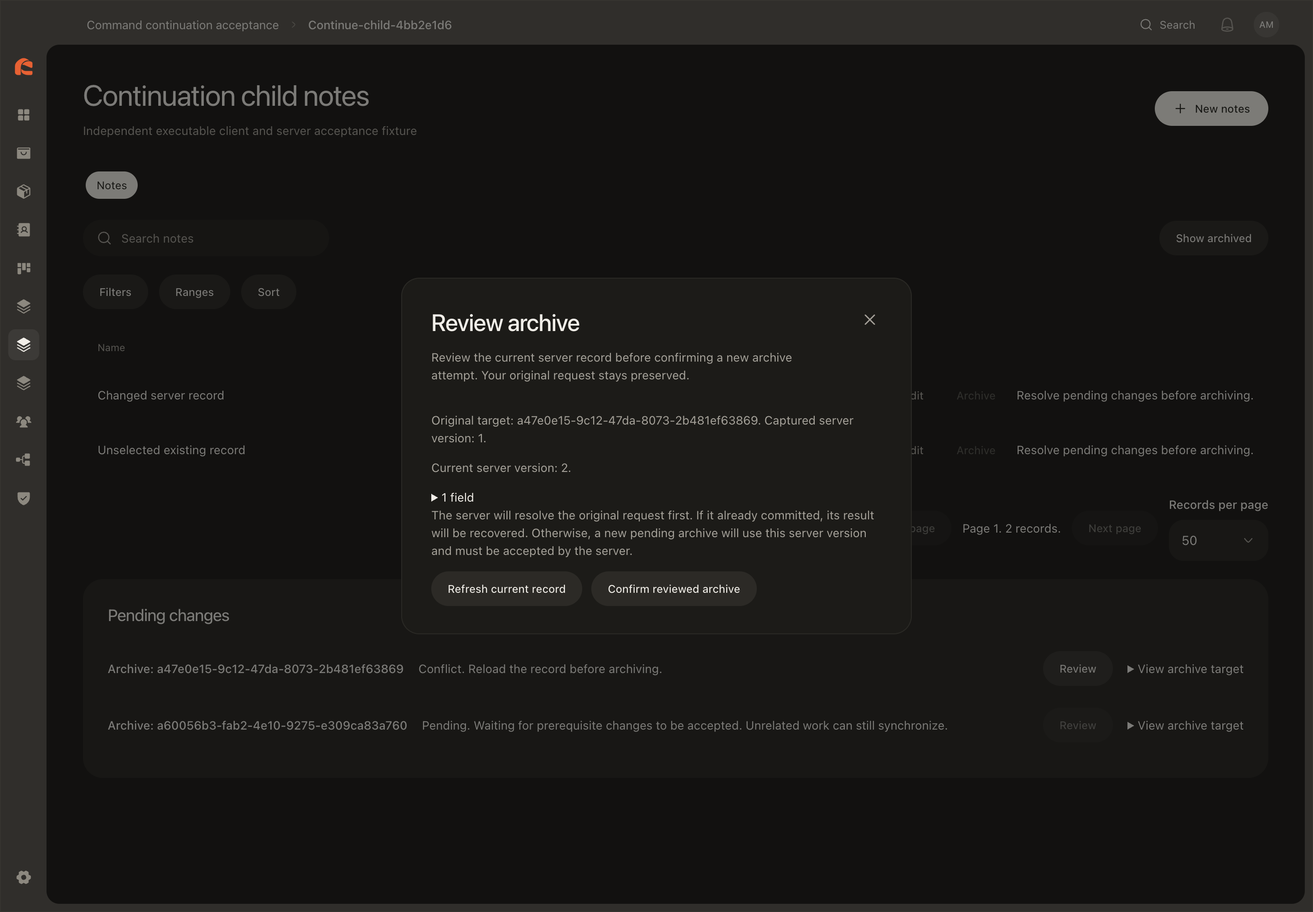
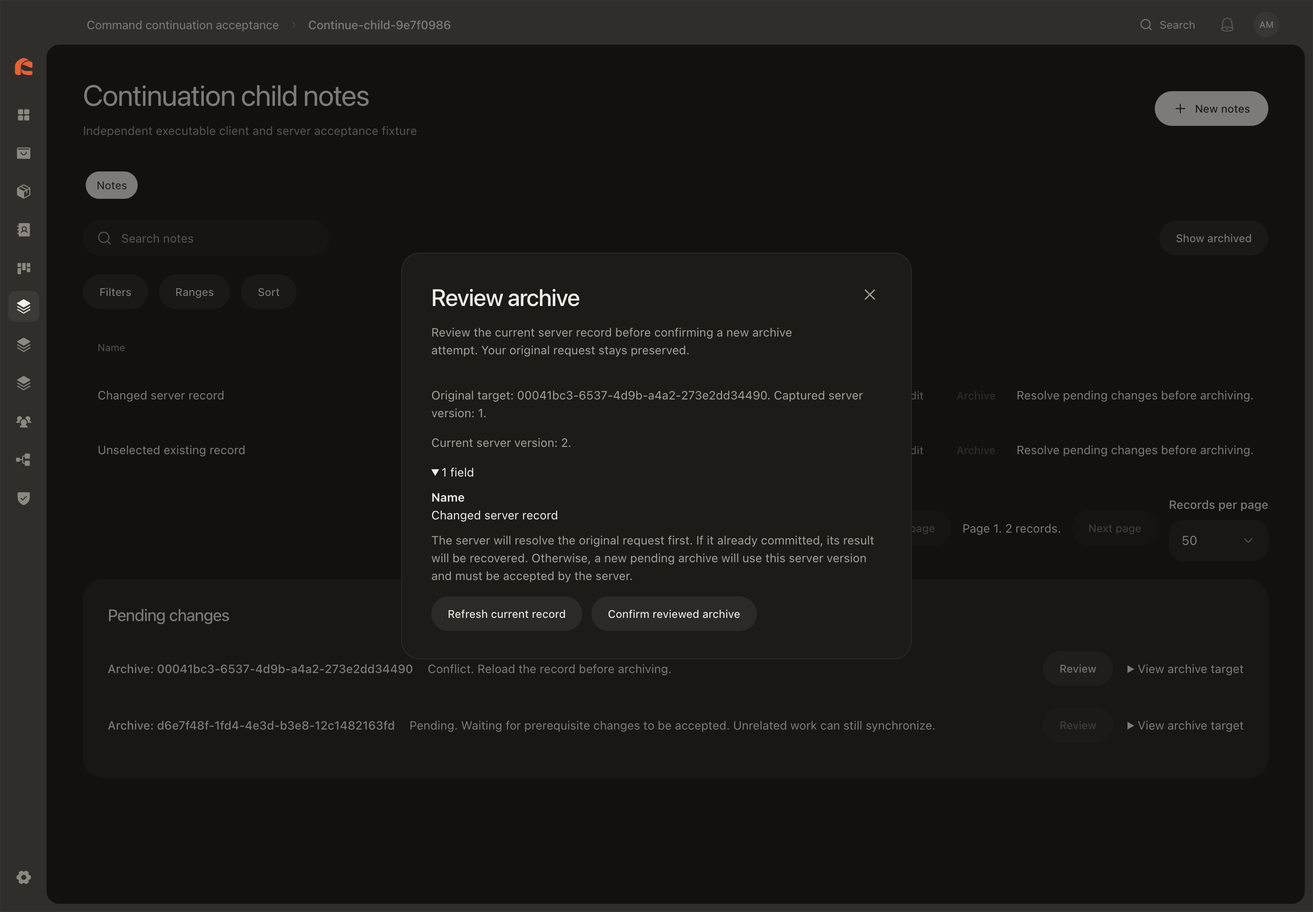
test: verify archive recovery and architecture boundaries

diff --git a/tests/support/archive-review-journey.ts b/tests/support/archive-review-journey.ts
@@ -82,9 +82,14 @@ export async function archiveReviewJourney({
   );
   expect(rollout.ok(), await rollout.text()).toBe(true);
   await page.getByRole("link", { name: "Modules", exact: true }).click();
-  const card = page.locator(".module-install-card").filter({
-    has: page.getByRole("heading", { name: modules[1].name, exact: true }),
-  });
+  const card = page
+    .locator(".module-install-card")
+    .filter({
+      has: page.getByRole("heading", { name: modules[1].name, exact: true }),
+    })
+    .filter({
+      has: page.getByText(`Version ${next.version}`, { exact: true }),
+    });
   await expect(card).toContainText(`Version ${next.version}`);
   await card.getByRole("button", { name: "Update", exact: true }).click();
   await expect(card).toContainText(`Installed ${next.version}`);

diff --git a/docs/parity-tracker.md b/docs/parity-tracker.md
@@ -15,11 +15,11 @@ Statuses: **ready** = executable next work; **open** = unfinished; **active** = 
 
 ## Current handoff
 
-**Current architecture review:** checkpoint `c43e7de` preserves queued-resource work. The requested Sol xhigh and parent reviews confirmed package ownership and consolidated queue-key validation under existing SDK/platform schema owners. Parent review also rejected malformed mixed retry identities. [Final evidence](verification/architecture/README.md#queued-resource-checkpoint-review-19-september-2026): strict checks/four fresh builds, 41 affected tests and two headless previews, following the full 550-test regression before the final schema correction. No production styling or signed historical artifact changed. The earlier [synchronization ownership review](verification/architecture/README.md#synchronization-ownership-review-19-september-2026) remains recorded separately.
+**Current architecture review:** checkpoint `222ac15` preserves archive recovery. The requested Sol xhigh audit and independent parent review confirmed current client/shell/UI ownership, explicit public exports and settlement/rewiring lock boundaries. No further structural change was justified; the original physical migration remains complete. [Review evidence](verification/architecture/README.md#archive-recovery-checkpoint-review-19-september-2026) links the scoped archive acceptance and its limits. Earlier [queued-resource](verification/architecture/README.md#queued-resource-checkpoint-review-19-september-2026) and [synchronization](verification/architecture/README.md#synchronization-ownership-review-19-september-2026) reviews remain recorded separately.
 
 **Architecture follow-up:** the requested Sol xhigh review preserved checkpoint `88f45f7` under `checkpoint/architecture-review-2026-09-18`, confirmed the existing ownership layout, and hardened portable SDK/contract checks and conditional wildcard export resolution. Parent review, nine boundary fixtures, strict checks and all four builds passed; see [review evidence](verification/architecture/README.md#follow-up-architecture-review-18-september-2026). This does not change parity statuses or the next SDK-05 work below.
 
-**Current primary item: OFF-01, dependent-create and conflict-resolution UI. [Retired command recovery](verification/command-retirement/README.md) preserves original input/reviews after removal or reclassification, with permission checks and explicit server settlement. [Historical permission administration](verification/historical-permissions/README.md) now has real People/matrix and recovery acceptance. [Host-owned command recovery](verification/command-recovery-host/README.md) now preserves access after view removal or device uninstall; its scoped acceptance is recorded separately. [Host-owned record/draft recovery](verification/resource-recovery-host/README.md) now preserves captured changes, receipts and ordinary drafts after resource removal or uninstall. [Advanced saved-review recovery](verification/host-review-recovery/README.md) adds queued/direct comparisons, collision-source drafts and archived input through offline uninstall/reinstall. [Independent saved-work exports](verification/work-recovery-export/README.md) now preserve exact requests, drafts and reviews from Settings under current authority. [Workspace synchronization](verification/workspace-synchronization/README.md) now verifies a shared coordinator across routes, capture and explicit retries. [Cross-module command continuation](verification/command-continuation/README.md) now has real browser/native restart and held-revocation evidence. [Native export ordering](verification/recovery-metadata-ordering/README.md) is now locally verified. [Public queued resources](verification/resource-continuation/README.md) now have SDK command-to-create continuation and create/update/archive lifecycle evidence. [Three-release saved-review recovery](verification/command-schema-review/README.md) now resolves removed top-level/nested fields without silently discarding input. [Reviewed update/archive descendants](verification/resource-descendants/README.md) now preserve original SDK capture identities through selected-only continuation, offline restart and revoked child authority. [Submitted descendant outcomes](verification/submitted-descendants/README.md) now verify command/create/update/archive recovery after reviewed continuation, including lost execution/settlement replies, restart and unrelated progress. Next: remaining legacy/source-contract and failed-create collision transitions, then profile recovery. The generated dependency chain and [explicit conflict comparison](verification/conflict-review/README.md) have scoped browser/native restart evidence. The [durable delivery milestone](verification/journal-delivery/README.md) preserves uncertain outcomes through denial and restart. The [authoritative settlement milestone](verification/attempt-settlement/README.md) now safely fences uncommitted requests and recovers accepted receipts. The [direct editor/archive milestone](verification/direct-recovery/README.md) now verifies exact retries through later denial, both authoritative outcomes and explicit online conflict review without enabling offline storage. The [independent review milestone](verification/review-drafts/README.md) now verifies separate queued/direct comparisons, ordinary-draft preservation, restart and offline resumption. The [journaled collision milestone](verification/create-collisions/README.md) adds authoritative separate-record recovery and atomic remapping of eligible unsubmitted resource dependents. The [direct collision milestone](verification/direct-create-collisions/README.md) now covers explicit separate-record recovery without enabling caching, including lost replacement receipts and repeated collisions. The [structured comparison milestone](verification/structured-conflicts/README.md) now verifies nested whole-field choices, authorized reference labels, partial review restart and real target-read revocation. The [cross-module capture milestone](verification/cross-capture/README.md) now verifies nested dependent creates, explicit grants, revocation/regrant, lost replies, offline restart and collision remapping. The [same-record milestone](verification/record-order/README.md) now verifies ordered capture, individual saved-input inspection, uncertainty, conflict review and dependent continuation. The [archived-input milestone](verification/archived-input/README.md) now verifies preserved read-only recovery, original-base exports, uncertain-request snapshots, pending-edit archive preflight and original-resource permission checks after tab changes. The [scoped recovery-export milestone](verification/recovery-export/README.md) now verifies current authority across delayed dialogs, revoked access, offline restart, lease expiry, closed views and logout, including denial of forged renderer snapshots. The [legacy ordering milestone](verification/legacy-order/README.md) now verifies durable scheduling repair, exact uncertain identities, explicit receipt recovery before continuation, offline restart and unrelated progress. The [collision-edit milestone](verification/collision-edits/README.md) now verifies per-edit target choice, retained original input, durable review before execution, chosen-target ordering and archived-source export. The [ordinary-draft collision milestone](verification/collision-drafts/README.md) adds explicit saved-draft choices, original-schema reference handling, atomic promotion to independent reviews and stale-editor protection without automatic submission. Legacy/online input remains unchanged when prior delivery or schema meaning is uncertain. Two earlier native linked-only dialog-close failures remain an intermittent reliability concern; a final eight-case run and nine instrumented collision repetitions passed, without establishing the earlier cause. [Retry-key alignment](verification/request-keys/README.md) now verifies opaque identities through native IPC, remote prerequisite lookup and original-release retry after restart. Retain the dialog diagnostic follow-up. The [queued-command SDK/storage foundation](verification/queued-commands/README.md) now implements typed provisional receipts, stable capture identities, original operation contracts, declared-error validation and reference prerequisites. [Custom-view queue integration](verification/queued-commands/README.md#custom-view-host-acceptance) now has real offline browser reload/native process-restart acceptance, exact-key lost-reply retry, declared rejection, accepted-outcome settlement, permission revocation, visible saved-input inspection and preview simulation. [Command correction](verification/command-correction/README.md) now preserves saved reviews across restart, fences originals before new identities, recovers late acceptance without a replacement, and continues only explicitly selected unsent dependents. [Held-action authority](verification/command-authority/README.md) now has browser/native expiry and received-revocation evidence, preserving exact reviews through reauthorization. [Command upgrade recovery](verification/command-upgrade/README.md) now checks original and active installed permissions, retains reviewed input across a new required field and recovers through the original identity under an explicit compatible rollout. Removed/reclassified commands and historical permission administration have scoped evidence above. Advanced host-owned reviews and independent exports have scoped acceptance above; remaining source-schema/legacy combinations and profile/sign-out recovery remain required. Submitted descendants after reviewed continuation now have scoped evidence; legacy/collision and broader command recovery remain required. The rest of the [acceptance map](offline-workflows.md) remains required. SDK-05-LAN-RECON now verifies authoritative remote prerequisites and original-release recovery, including duplicate-safe retry after mandatory updates. SDK-05 retains deployment, profile and notification acceptance; those gates remain required. OFF-01 is independent engineering work and a prerequisite for broader sign-out/profile recovery.** Architecture reconciliation was reviewed, committed and pushed as `92fd5fb`; its [acceptance record](verification/architecture/README.md) remains the source for the preserved baseline. [Local device grant authority](verification/local-device-grants/README.md) now verifies encrypted exact-release grants, lock/revoke/regrant, cross-window changes, upgrades/rollback and uninstall without losing records. [Local device consent](verification/local-device-consent/README.md) now verifies the owner-facing controls in web and hidden Electron, including offline decisions, keyboard focus and damaged-package revocation. [Standalone device requests](verification/local-device-requests/README.md) now have a typed worker contract, atomic encrypted journal and durable host processor with cancellation, reviewed device-only retries and uncertain-outcome recovery. [Actual standalone device effects and recovery controls](verification/local-device-effects/README.md) now pass browser/native acceptance. [Standalone development simulation](verification/local-device-simulator/README.md) now passes SDK, CLI and preview acceptance. [Corporate lease authority](verification/capability-leases/README.md) now has scoped server/signature acceptance: final hardened PostgreSQL regression and strict builds pass, and API schemas were regenerated after the local database recovered. [Client guard and browser persistence](verification/client-capability-leases/README.md) now have scoped acceptance for exact signed grants, policy/renewal races, restart, clock rollback and cross-tab/account isolation. [Real browser lease integration](verification/browser-capability-leases/README.md) now verifies authenticated acquisition, cached-view exports, connected revocation, tamper/expiry rejection and denial without fallback. [Issuer-wide client trust](verification/issuer-capability-trust/README.md) now verifies propagation across cached workspaces/accounts, restart, retired-key rejection, delayed-response races and legacy renewal. [Native offline authority](verification/native-capability-leases/README.md) now verifies main-owned policy/package/lease acquisition, protected process-restart recovery, expiry and revocation after dialogs, configured-issuer binding and rejection of renderer authority writes. [Corporate lease simulation](verification/corporate-lease-simulator/README.md) now verifies typed allowances, deterministic expiry, held-action rechecks, CLI scenarios and preview renewal/revocation/source reset. [Scoped Orders job delivery](verification/order-export-delivery/README.md) now validates current authority after native dialogs, rejects renderer CSV and cancels stale view contexts without rewriting signed releases. The [official effect audit](official-capability-adoption.md) separates host recovery/inbox/job responsibilities. [Orders 2.1.0 capability adoption](verification/orders-capability-release/README.md) now verifies the signed export declaration, shared typed host bridge, default onboarding and real 2.0.0 pin compatibility. [Administrator capability review](verification/capability-review/README.md) now verifies signed exact-release inspection, saved-policy explanations, central edits, offline limits and native IPC. The subsequent [portable format correction](verification/schema-formats/README.md) closes SDK-04-FMT with shared validation, authoring diagnostics, signed compatibility and real browser/native acceptance. The [native LAN milestone](verification/native-lan/README.md) now verifies scoped provisioning, lifecycle, TLS peer identity, SDK relay, durable quarantine, lease revocation and logout. The [received-draft recovery milestone](verification/lan-recovery/README.md) now verifies explicit review/submission, durable uncertain outcomes, process restart/reauthentication, dependency ordering and server-only acceptance. [Verified received-package reuse](verification/lan-packages/README.md) now connects resumable encrypted transfers and utility verification to the normal server-accepted installer without downloading package bytes again. [Received-draft lifecycle](verification/lan-life/README.md) now verifies bounded archiving, restoration, file round trips, explicit deletion and uncertain-outcome preservation. [Persistent peer status](verification/lan-status/README.md) now has scoped acceptance. [Module-granted startup and offline restart](verification/lan-authority/README.md) now have scoped acceptance. [Employee recovery](verification/lan-employee-recovery/README.md) now has scoped acceptance. Continue OFF-01 while retaining deployment and linked profile/notification gates in the SDK-05 map. Keep simulated outcomes distinct from native acceptance. Full parity and the later UI-refinement goal remain unchanged.
+**Current primary item: OFF-01, dependent-create and conflict-resolution UI. [Retired command recovery](verification/command-retirement/README.md) preserves original input/reviews after removal or reclassification, with permission checks and explicit server settlement. [Historical permission administration](verification/historical-permissions/README.md) now has real People/matrix and recovery acceptance. [Host-owned command recovery](verification/command-recovery-host/README.md) now preserves access after view removal or device uninstall; its scoped acceptance is recorded separately. [Host-owned record/draft recovery](verification/resource-recovery-host/README.md) now preserves captured changes, receipts and ordinary drafts after resource removal or uninstall. [Advanced saved-review recovery](verification/host-review-recovery/README.md) adds queued/direct comparisons, collision-source drafts and archived input through offline uninstall/reinstall. [Independent saved-work exports](verification/work-recovery-export/README.md) now preserve exact requests, drafts and reviews from Settings under current authority. [Workspace synchronization](verification/workspace-synchronization/README.md) now verifies a shared coordinator across routes, capture and explicit retries. [Cross-module command continuation](verification/command-continuation/README.md) now has real browser/native restart and held-revocation evidence. [Native export ordering](verification/recovery-metadata-ordering/README.md) is now locally verified. [Public queued resources](verification/resource-continuation/README.md) now have SDK command-to-create continuation and create/update/archive lifecycle evidence. [Three-release saved-review recovery](verification/command-schema-review/README.md) now resolves removed top-level/nested fields without silently discarding input. [Reviewed update/archive descendants](verification/resource-descendants/README.md) now preserve original SDK capture identities through selected-only continuation, offline restart and revoked child authority. [Submitted descendant outcomes](verification/submitted-descendants/README.md) now verify command/create/update/archive recovery after reviewed continuation, including lost execution/settlement replies, restart and unrelated progress. [Explicit archive review](verification/archive-review/README.md) now replaces the empty create-form path with current-record review, fenced replacement and already-archived resolution. Next: remaining legacy/source-contract and failed-create collision transitions, then profile recovery. The generated dependency chain and [explicit conflict comparison](verification/conflict-review/README.md) have scoped browser/native restart evidence. The [durable delivery milestone](verification/journal-delivery/README.md) preserves uncertain outcomes through denial and restart. The [authoritative settlement milestone](verification/attempt-settlement/README.md) now safely fences uncommitted requests and recovers accepted receipts. The [direct editor/archive milestone](verification/direct-recovery/README.md) now verifies exact retries through later denial, both authoritative outcomes and explicit online conflict review without enabling offline storage. The [independent review milestone](verification/review-drafts/README.md) now verifies separate queued/direct comparisons, ordinary-draft preservation, restart and offline resumption. The [journaled collision milestone](verification/create-collisions/README.md) adds authoritative separate-record recovery and atomic remapping of eligible unsubmitted resource dependents. The [direct collision milestone](verification/direct-create-collisions/README.md) now covers explicit separate-record recovery without enabling caching, including lost replacement receipts and repeated collisions. The [structured comparison milestone](verification/structured-conflicts/README.md) now verifies nested whole-field choices, authorized reference labels, partial review restart and real target-read revocation. The [cross-module capture milestone](verification/cross-capture/README.md) now verifies nested dependent creates, explicit grants, revocation/regrant, lost replies, offline restart and collision remapping. The [same-record milestone](verification/record-order/README.md) now verifies ordered capture, individual saved-input inspection, uncertainty, conflict review and dependent continuation. The [archived-input milestone](verification/archived-input/README.md) now verifies preserved read-only recovery, original-base exports, uncertain-request snapshots, pending-edit archive preflight and original-resource permission checks after tab changes. The [scoped recovery-export milestone](verification/recovery-export/README.md) now verifies current authority across delayed dialogs, revoked access, offline restart, lease expiry, closed views and logout, including denial of forged renderer snapshots. The [legacy ordering milestone](verification/legacy-order/README.md) now verifies durable scheduling repair, exact uncertain identities, explicit receipt recovery before continuation, offline restart and unrelated progress. The [collision-edit milestone](verification/collision-edits/README.md) now verifies per-edit target choice, retained original input, durable review before execution, chosen-target ordering and archived-source export. The [ordinary-draft collision milestone](verification/collision-drafts/README.md) adds explicit saved-draft choices, original-schema reference handling, atomic promotion to independent reviews and stale-editor protection without automatic submission. Legacy/online input remains unchanged when prior delivery or schema meaning is uncertain. Two earlier native linked-only dialog-close failures remain an intermittent reliability concern; a final eight-case run and nine instrumented collision repetitions passed, without establishing the earlier cause. [Retry-key alignment](verification/request-keys/README.md) now verifies opaque identities through native IPC, remote prerequisite lookup and original-release retry after restart. Retain the dialog diagnostic follow-up. The [queued-command SDK/storage foundation](verification/queued-commands/README.md) now implements typed provisional receipts, stable capture identities, original operation contracts, declared-error validation and reference prerequisites. [Custom-view queue integration](verification/queued-commands/README.md#custom-view-host-acceptance) now has real offline browser reload/native process-restart acceptance, exact-key lost-reply retry, declared rejection, accepted-outcome settlement, permission revocation, visible saved-input inspection and preview simulation. [Command correction](verification/command-correction/README.md) now preserves saved reviews across restart, fences originals before new identities, recovers late acceptance without a replacement, and continues only explicitly selected unsent dependents. [Held-action authority](verification/command-authority/README.md) now has browser/native expiry and received-revocation evidence, preserving exact reviews through reauthorization. [Command upgrade recovery](verification/command-upgrade/README.md) now checks original and active installed permissions, retains reviewed input across a new required field and recovers through the original identity under an explicit compatible rollout. Removed/reclassified commands and historical permission administration have scoped evidence above. Advanced host-owned reviews and independent exports have scoped acceptance above; remaining source-schema/legacy combinations and profile/sign-out recovery remain required. Submitted descendants after reviewed continuation now have scoped evidence; legacy/collision and broader command recovery remain required. The rest of the [acceptance map](offline-workflows.md) remains required. SDK-05-LAN-RECON now verifies authoritative remote prerequisites and original-release recovery, including duplicate-safe retry after mandatory updates. SDK-05 retains deployment, profile and notification acceptance; those gates remain required. OFF-01 is independent engineering work and a prerequisite for broader sign-out/profile recovery.** Architecture reconciliation was reviewed, committed and pushed as `92fd5fb`; its [acceptance record](verification/architecture/README.md) remains the source for the preserved baseline. [Local device grant authority](verification/local-device-grants/README.md) now verifies encrypted exact-release grants, lock/revoke/regrant, cross-window changes, upgrades/rollback and uninstall without losing records. [Local device consent](verification/local-device-consent/README.md) now verifies the owner-facing controls in web and hidden Electron, including offline decisions, keyboard focus and damaged-package revocation. [Standalone device requests](verification/local-device-requests/README.md) now have a typed worker contract, atomic encrypted journal and durable host processor with cancellation, reviewed device-only retries and uncertain-outcome recovery. [Actual standalone device effects and recovery controls](verification/local-device-effects/README.md) now pass browser/native acceptance. [Standalone development simulation](verification/local-device-simulator/README.md) now passes SDK, CLI and preview acceptance. [Corporate lease authority](verification/capability-leases/README.md) now has scoped server/signature acceptance: final hardened PostgreSQL regression and strict builds pass, and API schemas were regenerated after the local database recovered. [Client guard and browser persistence](verification/client-capability-leases/README.md) now have scoped acceptance for exact signed grants, policy/renewal races, restart, clock rollback and cross-tab/account isolation. [Real browser lease integration](verification/browser-capability-leases/README.md) now verifies authenticated acquisition, cached-view exports, connected revocation, tamper/expiry rejection and denial without fallback. [Issuer-wide client trust](verification/issuer-capability-trust/README.md) now verifies propagation across cached workspaces/accounts, restart, retired-key rejection, delayed-response races and legacy renewal. [Native offline authority](verification/native-capability-leases/README.md) now verifies main-owned policy/package/lease acquisition, protected process-restart recovery, expiry and revocation after dialogs, configured-issuer binding and rejection of renderer authority writes. [Corporate lease simulation](verification/corporate-lease-simulator/README.md) now verifies typed allowances, deterministic expiry, held-action rechecks, CLI scenarios and preview renewal/revocation/source reset. [Scoped Orders job delivery](verification/order-export-delivery/README.md) now validates current authority after native dialogs, rejects renderer CSV and cancels stale view contexts without rewriting signed releases. The [official effect audit](official-capability-adoption.md) separates host recovery/inbox/job responsibilities. [Orders 2.1.0 capability adoption](verification/orders-capability-release/README.md) now verifies the signed export declaration, shared typed host bridge, default onboarding and real 2.0.0 pin compatibility. [Administrator capability review](verification/capability-review/README.md) now verifies signed exact-release inspection, saved-policy explanations, central edits, offline limits and native IPC. The subsequent [portable format correction](verification/schema-formats/README.md) closes SDK-04-FMT with shared validation, authoring diagnostics, signed compatibility and real browser/native acceptance. The [native LAN milestone](verification/native-lan/README.md) now verifies scoped provisioning, lifecycle, TLS peer identity, SDK relay, durable quarantine, lease revocation and logout. The [received-draft recovery milestone](verification/lan-recovery/README.md) now verifies explicit review/submission, durable uncertain outcomes, process restart/reauthentication, dependency ordering and server-only acceptance. [Verified received-package reuse](verification/lan-packages/README.md) now connects resumable encrypted transfers and utility verification to the normal server-accepted installer without downloading package bytes again. [Received-draft lifecycle](verification/lan-life/README.md) now verifies bounded archiving, restoration, file round trips, explicit deletion and uncertain-outcome preservation. [Persistent peer status](verification/lan-status/README.md) now has scoped acceptance. [Module-granted startup and offline restart](verification/lan-authority/README.md) now have scoped acceptance. [Employee recovery](verification/lan-employee-recovery/README.md) now has scoped acceptance. Continue OFF-01 while retaining deployment and linked profile/notification gates in the SDK-05 map. Keep simulated outcomes distinct from native acceptance. Full parity and the later UI-refinement goal remain unchanged.
 
 **User direction: resume feature parity after creating and pushing the repository checkpoint. UI refinement is authorized as a second goal after parity is verified; see [its queued brief](ui-refinement-goal.md).** The current interface remains an engineering baseline, not an accepted visual standard.
 
@@ -93,7 +93,7 @@ Statuses: **ready** = executable next work; **open** = unfinished; **active** = 
 | OFF-01-SCHEMA | verified | [Three-release saved-review recovery](verification/command-schema-review/README.md): removed top-level/nested fields stay visible until explicitly removed from the draft; original requests, unsaved/saved review restart, current validation and duplicate-free web/native completion are verified. | OFF-01-RESOURCE | CORE-003, UI-003, offline recovery |
 | OFF-01-DESC | verified | [Scoped acceptance](verification/resource-descendants/README.md): command-to-update/archive reviews retain original capture identities through current-authority checks, offline restart, selected-only execution and duplicate-free effects. Submitted/uncertain children remain excluded and preserved; outcomes after approved continuation are verified separately under OFF-01-OUTCOME. | OFF-01-RESOURCE | CORE-003, UI-003, offline correctness |
 | OFF-01-OUTCOME | verified | [Scoped acceptance](verification/submitted-descendants/README.md): command/create/update/archive outcomes after reviewed parent continuation survive lost execution/settlement replies and restart. Unrelated work progresses; original identities, cancellation fences and duplicate-free effects are verified. Legacy/collision transitions remain under OFF-01. | OFF-01-DESC | CORE-003, UI-003, offline correctness |
-| OFF-01-ARCHIVE | active | Explicit rejected/conflicting archive review against the current server record; fence the original before durable replacement, preserve current authority, restart and duplicate-free outcomes. No empty create form or implicit archive retry. | OFF-01-OUTCOME | CORE-003, UI-003, offline correctness |
+| OFF-01-ARCHIVE | verified | [Scoped acceptance](verification/archive-review/README.md): explicit current-record review, authoritative original settlement, durable replacement, restart and current-authority checks. Already-archived records resolve the original without another effect. Failed-create target reassignment remains under OFF-01. | OFF-01-OUTCOME | CORE-003, UI-003, offline correctness |
 | OFF-02 | open   | Authorized working-set selection, freshness and bounded cache management. Prove account/workspace isolation and lease shortening, expiry and connected revocation without losing pending work.            | —             | SHELL-001, Offline correctness |
 | OFF-03 | open   | Pending-work and uncertain-request recovery through sign-out, profile removal and revoked authorization. Reauthentication determines resubmission/export rights; no silent deletion or duplicate effects. | OFF-01, ID-02 | SHELL-001, AUTH-002            |
 | OFF-04 | open   | Explicit personal-to-company import with preview and server validation. Reject unauthorized/invalid records, handle references and retries, and preserve source personal work.                            | SDK-02        | AUTH-001                       |

diff --git a/docs/verification/archive-review/README.md b/docs/verification/archive-review/README.md
@@ -1,9 +1,22 @@
 # Explicit archive review
 
-Status: OFF-01-ARCHIVE active; final acceptance pending.
+Status: OFF-01-ARCHIVE scoped local acceptance verified. Full OFF-01 and parity remain open.
 
 A failed queued archive previously used the generated create/update review handler and opened an empty **New record** form. The real browser baseline reproduced that behavior against the previous built client: `/tmp/gabs-archive-before.log`. The original archive input remains unchanged; this was a review-flow defect, not an accepted business effect.
 
 The new review shows original target/version and a fresh server snapshot. Confirmation settles the original identity first. Accepted originals recover their verified receipt; cancelled originals permit a new durable archive using the explicitly reviewed version. Interrupted replacement preserves the cancellation and original request. Current read/write access and exact installed release are checked before and after settlement and in the final enqueue transaction. Uncertain requests and submitted direct dependents cannot be replaced here.
 
-Focused storage checks passed 63 tests before the final small receipt-provenance addition. Final strict builds, browser/native acceptance and visual inspection are pending. Existing presentation components are reused without style changes. This does not implement archive target reassignment after failed-create collisions, nor complete other legacy/profile/release gates.
+## Final verification, 19 September 2026
+
+Checkpoint `222ac15` preserves the implementation before the requested Sol xhigh architecture review. The checkpoint is a recovery snapshot, not acceptance.
+
+- Final production source passed strict root/browser/Node/preload/worker checks, dependency/copy enforcement and four fresh builds: `/tmp/gabs-archive-acceptance-build.log`.
+- The final post-review `pnpm build` also passed fresh strict/boundary checks and reused the four valid Turbo build artifacts: `/tmp/gabs-archive-architecture-final-build.log`. Changed-source formatting, diff checks, documentation links, all 29 original requirement IDs and tracker dependencies passed.
+- All 575 unit/PostgreSQL tests across 89 files passed, including the eight new archive recovery cases and nine architecture fixtures: `/tmp/gabs-archive-regression.log`.
+- Eight headless browser journeys passed: `/tmp/gabs-archive-web-reviewed.log`. The preceding run passed six and exposed a fixture selector that matched several independently published modules with the same display name. The corrected selector also requires the exact published version; no acceptance criterion was relaxed.
+- Eight hidden/minimized, unfocused Electron journeys passed: `/tmp/gabs-archive-native-reviewed.log`. Both platforms cover the two archive-review cases, command-to-create/update/archive continuation, accepted/cancelled submitted archives and resource recovery after uninstall.
+- Scoped Axe and overflow assertions passed. All twelve final captures in this directory were inspected: review and already-archived states at wide/narrow widths, revoked access at narrow width and the accepted archive list. The current record is expanded by default in this confirmation; existing `ResourceValue` callers retain their previous behavior. This is scoped functional presentation acceptance, not approval of the entire UI or full accessibility conformance.
+
+The journeys use actual SDK capture, signed releases, server updates and permission changes. They preserve the original archive through offline reload/process restart, a held settlement response during write revocation and a lost settlement reply. A successful reviewed replacement uses the current version, leaves the unselected sibling untouched, and produces exactly one archive effect and audit entry. An already-archived target offers explicit original-outcome resolution without creating another archive.
+
+Existing presentation components are reused without style changes. This does not implement archive target reassignment after failed-create collisions, nor complete other legacy/profile/release gates.

diff --git a/docs/verification/architecture/README.md b/docs/verification/architecture/README.md
@@ -128,3 +128,14 @@ Parent review inspected all changed production files and the regressions. Final 
 - The checkpointed resource milestone separately passed six browser and five hidden/minimized, unfocused native cases before these validation-only corrections. Its [evidence](../resource-continuation/README.md) records the exact sequence and twelve inspected captures. No production stylesheet or signed historical artifact changed.
 
 Physical paths, public package identifiers, module permissions and corporate authority remain intact. OFF-01-RESOURCE has scoped local acceptance; OFF-01, full product parity and final UI refinement remain incomplete. The paused goal stays paused during this requested architecture task.
+
+
+## Archive recovery checkpoint review, 19 September 2026
+
+Checkpoint `222ac15` preserves the archive-recovery implementation before the explicitly requested `gpt-5.6-sol` review at `xhigh`. The physical migration remains implemented in `92fd5fb`: `sdk`, `client`, `server`, `shell` and nested `ui/web` and `ui/tokens`. Public package identifiers remain compatibility contracts.
+
+The independent audit and parent review found no further structural correction justified. Durable archive settlement, cancellation, replacement and dependency rewiring belong in `client/src/modules/archive-recovery.ts`, exposed through an explicit package export. The shell owns React state, the current server snapshot and live authorization binding. `ui/web` owns only the generic opt-in expansion of `ResourceValue`; existing callers retain their behavior. No styling or signed historical artifact changed.
+
+Both reviews examined the scope-specific synchronization lock across settlement and enqueue, the separate storage transactions, current permission/release checks, immutable original calls and retained response validation. Submitted or uncertain direct children are rejected before settlement and in the subsequent storage transaction. The synchronization lock remains held through enqueue; concurrent captures can only add unsent children, which are rewired atomically. Cancellation remains durable if local replacement fails. A spot-check since `703b3ab` also confirmed that shared request-key validation and SDK boundaries remain intact.
+
+The parent corrected an acceptance selector to identify the exact independently published release when several fixture modules share a display name. The subagent made no source changes and ran no duplicate verification. [Archive acceptance](../archive-review/README.md) owns the fresh build, full regression, browser/native and visual results, including initial failures and scope limits. This review does not close full OFF-01, product parity or the later UI-refinement goal.

diff --git a/docs/verification/README.md b/docs/verification/README.md
@@ -819,3 +819,10 @@ Strict checks and four fresh builds passed. The full regression passed 543 tests
 [OFF-01-OUTCOME acceptance](submitted-descendants/README.md) reproduces and fixes queue starvation after an isolated network/server failure. The SDK now preserves that request's uncertainty while giving unrelated eligible work one attempt; shared authentication, membership/MFA failures and rate limits still stop the pass. Real command/create/update/archive children recover accepted or cancelled outcomes after reviewed parent continuation, lost execution and settlement replies, and offline restart, without changing original identities or duplicating effects/audits.
 
 Final verification passed 567 tests across 89 files, strict checks/four fresh builds, ten headless browser and ten hidden/minimized Electron journeys. Scoped accessibility/overflow checks passed; eight final captures were inspected. The evidence distinguishes an initial dialog-navigation harness failure from the reproduced product failure. Production UI/styling is unchanged. Remaining legacy/collision, working-set, profile/provider/release and full UI gates stay open.
+
+
+## Archive review and architecture checkpoint, 19 September 2026
+
+[OFF-01-ARCHIVE acceptance](archive-review/README.md) fixes rejected/conflicting archives opening an empty create form. A fresh server snapshot informs explicit replacement only after original settlement; accepted originals recover receipts, cancelled originals preserve their fence through interruption, and already-archived targets resolve the original without another archive. Current authority, exact installed releases, unselected sibling preservation and duplicate-free effects pass real web/native restart and lost-reply journeys.
+
+Verification passed 575 unit/PostgreSQL tests across 89 files, strict checks/four fresh builds, eight headless browser and eight hidden/minimized Electron journeys. Scoped accessibility/overflow checks passed; twelve final captures were inspected. An initial ambiguous fixture selector was corrected to require the exact published release. [The requested Sol xhigh audit and parent review](architecture/README.md#archive-recovery-checkpoint-review-19-september-2026) confirmed package ownership and transaction/lock boundaries with no additional structural change justified. Historical captures were restored. Failed-create archive target reassignment, remaining legacy/profile/release work and full UI refinement remain open.

diff --git a/docs/modular-platform.md b/docs/modular-platform.md
@@ -314,6 +314,12 @@ Creation assigns a UUID record target before capture. A supplied retry key reuse
 
 `ModuleQueue.resources` is the optional host adapter for these methods. Corporate views and the development simulator provide it; a host without it reports an actionable unsupported-host error. This API does not grant corporate authority to a standalone workspace. Newly built custom views require `client.resources` revision 4; the current host also retains revisions 1–3 for existing signed releases. Revision compatibility does not confer permissions or enable offline storage.
 
+### Saved archive correction
+
+The generated resource view reviews a rejected/conflicting archive separately from create/update forms. It loads the current server record under current read/write authority and displays its version beside the original target/base. `@suite/client/archive-recovery` fences the exact original before durably enqueuing a reviewed archive; accepted originals recover their validated receipt without replacement. The client holds the workspace synchronization lock across settlement and enqueue, rejects submitted dependents, and rechecks current authority and the exact installed release within storage transactions. Cancellation survives an interrupted local replacement.
+
+Already-archived records offer explicit original-outcome resolution without another archive effect. Offline/access loss clears the current snapshot and blocks confirmation. [Acceptance and limits](verification/archive-review/README.md) distinguish this workflow from still-required failed-create archive target reassignment and legacy/profile recovery.
+
 ### Saved command correction
 
 Rejected or conflicting commands can retain a separate review, including partial invalid input, without changing the original request or submitting work. Uncertain requests must resolve their original outcome first. Saving persists the input, current signed release, revision and explicitly selected never-submitted dependents. Stale reviews, changed dependent input and changed authority require another review.

diff --git a/docs/offline-workflows.md b/docs/offline-workflows.md
@@ -60,6 +60,10 @@ With offline storage disabled, direct pending input remains in the mounted edito
 
 [Scoped recovery-export acceptance](verification/recovery-export/README.md) now verifies native account/workspace/module binding, current read and dependency authority before and after delayed dialogs, denial of unscoped writes and renderer-forged policy, protected offline restart, expiry and logout. Browser export verifies current identity/policy, persists received denial, cancels stale views and checks retained offline policy. Neither path turns exported input into an accepted business change. Broader profile/sign-out recovery remains OFF-03.
 
+### Explicit queued archive review
+
+[Archive-review acceptance](verification/archive-review/README.md) covers rejected/conflicting archives against the current server record. The original target and base version remain visible; confirmation settles the original before queuing a fresh archive at the reviewed version. Accepted originals recover receipts. An already-archived record offers original-outcome resolution without another archive. Received write revocation and offline restart preserve the original; reauthorization and explicit confirmation restore the workflow. Failed-create archive target reassignment remains required separately.
+
 ### Independent saved-work exports
 
 [Settings export acceptance](verification/work-recovery-export/README.md) covers original requests, drafts, independent comparisons and collision/archive provenance after module removal or uninstall and offline restart. Files retain exact device observations; export does not mutate work, authorize execution or implement import. Current identity, original/current permissions and offline leases govern delivery. Native metadata is prepared again through authenticated catalog/source-contract requests after policy changes and reauthentication; unknown originals fail closed.

diff --git a/docs/requirement-ledger.md b/docs/requirement-ledger.md
@@ -259,3 +259,8 @@ CORE-003 and UI-003 gain [scoped OFF-01-DESC evidence](verification/resource-des
 ## Submitted descendant outcomes, 19 September 2026
 
 CORE-003 and UI-003 gain [scoped OFF-01-OUTCOME evidence](verification/submitted-descendants/README.md): command/create/update/archive descendants after approved parent continuation recover exact accepted-or-cancelled outcomes through lost execution/settlement replies and offline restart. The scheduler no longer lets one transport/server failure starve unrelated work; shared authentication/rate-limit stops and prerequisite ordering remain. Final checks passed 567 unit/PostgreSQL tests, strict checks/four fresh builds and ten journeys in each web/native client, with duplicate-free state/audits and eight inspected captures. Legacy/collision transitions, profiles and broader release requirements remain open; no entire original requirement is newly complete.
+
+
+## Explicit archive recovery, 19 September 2026
+
+CORE-003 and UI-003 gain [scoped OFF-01-ARCHIVE evidence](verification/archive-review/README.md): failed archives retain original targets/versions, review current server data and settle the exact original before a durable replacement. Revocation and offline restart preserve input; accepted or already-archived outcomes do not produce another archive. Verification passed 575 unit/PostgreSQL tests, strict checks/four fresh builds, eight headless browser and eight hidden native journeys, with twelve inspected captures. The requested Sol xhigh and parent architecture reviews confirmed current ownership. Failed-create archive target reassignment and other legacy/profile/release gates remain required; no entire original requirement is newly complete.
